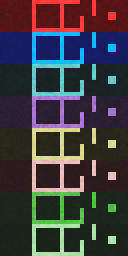
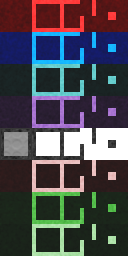
Test room

Changed region(s): [[0.0, 0.5, 1.0, 0.625]]

diff --git a/src/game/game.cpp b/src/game/game.cpp
@@ -115,10 +115,10 @@ struct Game : Scene, IGame
         if(!tile)
           return;
 
-        if(abs(x - cameraPos.x) > 9)
+        if(abs(x - cameraPos.x) > 16)
           return;
 
-        if(abs(y - cameraPos.y) > 9)
+        if(abs(y - cameraPos.y) > 16)
           return;
 
         if(abs(z - cameraPos.z) > 9)
@@ -280,23 +280,20 @@ struct Game : Scene, IGame
 
   bool isRectSolid(Box rect)
   {
-    if(isPointSolid(Vector(rect.x, rect.y, rect.z)))
-      return true;
+    auto const x1 = (int)min(rect.x, rect.x + rect.cx);
+    auto const x2 = (int)max(rect.x, rect.x + rect.cx);
 
-    if(isPointSolid(Vector(rect.x, rect.y + rect.cy, rect.z)))
-      return true;
+    auto const y1 = (int)min(rect.y, rect.y + rect.cy);
+    auto const y2 = (int)max(rect.y, rect.y + rect.cy);
 
-    if(isPointSolid(Vector(rect.x + rect.cx, rect.y, rect.z)))
-      return true;
+    auto const z1 = (int)min(rect.z, rect.z + rect.cz);
+    auto const z2 = (int)max(rect.z, rect.z + rect.cz);
 
-    if(isPointSolid(Vector(rect.x + rect.cx, rect.y + rect.cy, rect.z)))
-      return true;
-
-    if(isPointSolid(Vector(rect.x, rect.y + rect.cy / 2, rect.z)))
-      return true;
-
-    if(isPointSolid(Vector(rect.x + rect.cx, rect.y + rect.cy / 2, rect.z)))
-      return true;
+    for(int x = x1; x <= x2; ++x)
+      for(int y = y1; y <= y2; ++y)
+        for(int z = z1; z <= z2; ++z)
+          if(isPointSolid(Vector(x, y, z)))
+            return true;
 
     return false;
   }

diff --git a/src/game/entities/rockman.cpp b/src/game/entities/rockman.cpp
@@ -20,9 +20,10 @@
 #include "game/toggle.h"
 #include "rockman.h"
 
+auto const GRAVITY = 0.00015;
 auto const WALK_SPEED = 0.0075f;
 auto const MAX_HORZ_SPEED = 0.02f;
-auto const MAX_FALL_SPEED = 0.02f;
+auto const MAX_FALL_SPEED = 100.0f;
 auto const HURT_DELAY = 500;
 
 enum ORIENTATION
@@ -87,8 +88,10 @@ struct Rockman : Player, Damageable
   virtual Actor getActor() const override
   {
     auto r = Actor(pos, MDL_ROCKMAN);
-    r.scale = UnitSize;
+    r.scale = UnitSize * 0;
     r.focus = true;
+
+    r.pos.z += 1.5;
 
     r.orientation.x = cos(lookAngleHorz) * cos(lookAngleVert);
     r.orientation.y = sin(lookAngleHorz) * cos(lookAngleVert);
@@ -121,8 +124,7 @@ struct Rockman : Player, Damageable
     if(ground)
       doubleJumped = false;
 
-    // gravity
-    vel.z -= 0.00005;
+    vel.z -= GRAVITY;
 
     sliding = false;
 
@@ -131,13 +133,13 @@ struct Rockman : Player, Damageable
       if(ground)
       {
         game->playSound(SND_JUMP);
-        vel.z = 0.03;
+        vel.z = 0.1;
         doubleJumped = false;
       }
       else if((upgrades & UPGRADE_DJUMP) && !doubleJumped)
       {
         game->playSound(SND_JUMP);
-        vel.z = 0.03;
+        vel.z = 0.1;
         doubleJumped = true;
       }
     }

diff --git a/src/game/level_graph.cpp b/src/game/level_graph.cpp
@@ -8,16 +8,55 @@ Room Graph_loadRoom(int /*roomIdx*/, IGame* /*game*/)
 
   r.name = "test room";
 
+  auto const W = 8;
+  auto const H = 4;
+
+  auto isBoundary =
+    [&] (Vector3i v)
+    {
+      if(v.x == 0 || v.x == W)
+        return 1;
+
+      if(v.y == 0 || v.y == W)
+        return 1;
+
+      if(v.z == 0 || v.z == H)
+        return 1;
+
+      return 0;
+    };
+
+  auto getTile =
+    [&] (Vector3i v)
+    {
+      if(v.x == 0 || v.y == 0 || v.z == 0)
+        return 1;
+
+      v.x--;
+      v.y--;
+      v.z--;
+
+      if(!isBoundary(v))
+        return 0;
+
+      if(abs(v.x - W) <= 1)
+        return 0;
+
+      if(abs(v.y - W) <= 1)
+        return 0;
+
+      if(abs(v.z - H) <= 1)
+        return 0;
+
+      return 1;
+    };
+
   auto onCell =
     [&] (int x, int y, int z, int /*tile*/)
     {
-      if(z <= 2 || z >= 5)
-        r.tiles.set(x, y, z, 1);
+      r.tiles.set(x, y, z, getTile(Vector3i(x, y, z)));
 
-      if(x == 0 || y == 0 || x == 63 || y == 63)
-        r.tiles.set(x, y, z, 1);
-
-      if(rand() % 13 == 0)
+      if(rand() % 123 == 0)
         r.tiles.set(x, y, z, 1);
     };
 

diff --git a/src/engine/app.cpp b/src/engine/app.cpp
@@ -54,7 +54,7 @@ public:
   {
     SDL_Init(0);
 
-    Display_init(512, 512);
+    Display_init(1024, 1024);
     m_audio.reset(createAudio());
 
     for(auto sound : getSounds())
